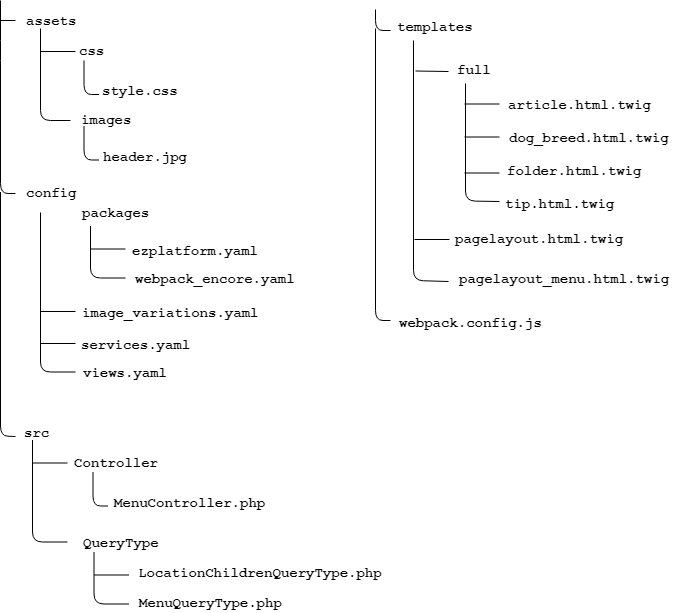
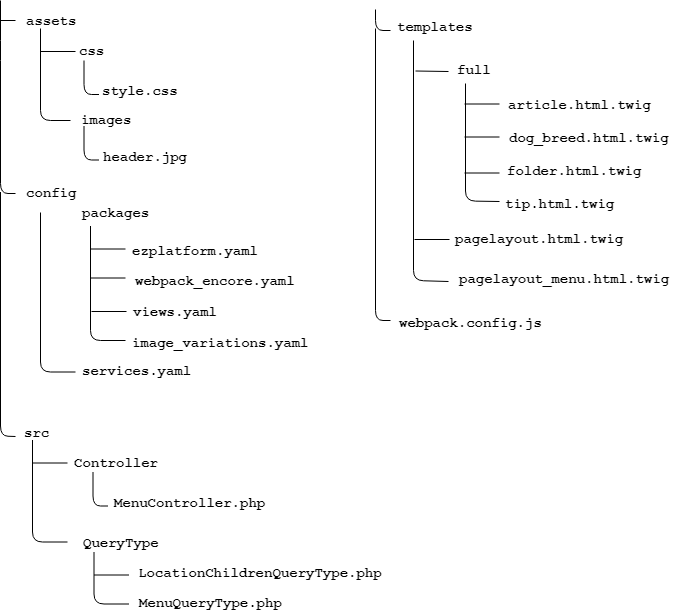
Fixes after review

diff --git a/docs/tutorials/enterprise_beginner/4_create_a_custom_block.md b/docs/tutorials/enterprise_beginner/4_create_a_custom_block.md
@@ -183,8 +183,7 @@ private function findContentItems(Location $location): array
 At this point the new custom block is ready to be used.
 
 You're left with the last cosmetic changes. First, the new Block has a broken icon in the Elements menu in Page mode.
-This is because you haven't provided this icon yet. If
- you look back to the YAML configuration, you can see the icon file defined as `random_block.svg` (line 4). Download [the provided file](https://github.com/ezsystems/ezplatform-ee-beginner-tutorial/blob/v3-step4/public/assets/images/blocks/random_block.svg) and place it in `public/assets/images/blocks`.
+This is because you haven't provided this icon yet. If you look back to the YAML configuration, you can see the icon file defined as `random_block.svg` (line 4). Download [the provided file](https://github.com/ezsystems/ezplatform-ee-beginner-tutorial/blob/v3-step4/public/assets/images/blocks/random_block.svg) and place it in `public/assets/images/blocks`.
 
 Finally, add some styling for the new block. Add the following to the end of the `assets/css/style.css` file:
 
@@ -211,7 +210,7 @@ Finally, add some styling for the new block. Add the following to the end of the
 }
 ```
 
-Run `yarn encore dev` to regenerate assets.
+Run `yarn encore <dev|prod>` to regenerate assets.
 
 Go back to editing the Front Page. Drag a Random Block from the Elements menu on the right to the Page's side column.
 Access the block's settings and choose the "All Tips" folder from the menu. Save and publish all the changes.

diff --git a/docs/tutorials/enterprise_beginner/1_get_a_starter_website.md b/docs/tutorials/enterprise_beginner/1_get_a_starter_website.md
@@ -65,18 +65,10 @@ Place the [`pagelayout.html.twig`](https://github.com/ezsystems/ezplatform-ee-be
 - [`folder.html.twig`](https://github.com/ezsystems/ezplatform-ee-beginner-tutorial/blob/v3-step1/templates/full/folder.html.twig)
 - [`tip.html.twig`](https://github.com/ezsystems/ezplatform-ee-beginner-tutorial/blob/v3-step1/templates/full/tip.html.twig)
 
-Place two configuration files in the `config` folder:
+Place two configuration files in the `config/packages` folder:
 
-- [`views.yaml`](https://github.com/ezsystems/ezplatform-ee-beginner-tutorial/blob/v3-step1/config/views.yaml)
-- [`image_variations.yaml`](https://github.com/ezsystems/ezplatform-ee-beginner-tutorial/blob/v3-step1/config/image_variations.yaml)
-
-Modify the `ezplatform.yaml` file located in `config/packages` folder and add the following block at the start of the file:
-
-``` yaml
-imports:
-    - { resource: ../views.yaml }
-    - { resource: ../image_variations.yaml }
-```
+- [`views.yaml`](https://github.com/ezsystems/ezplatform-ee-beginner-tutorial/blob/v3-step1/config/packages/views.yaml)
+- [`image_variations.yaml`](https://github.com/ezsystems/ezplatform-ee-beginner-tutorial/blob/v3-step1/config/packages/image_variations.yaml)
 
 Create an `assets` folder in the project root:
 
@@ -88,7 +80,7 @@ Replace the `webpack.config.js` file in the project root folder with the [provid
 Next, in the terminal run the commands:
 
 ``` bash
-yarn encore dev
+yarn encore <dev|prod>
 php bin/console cache:clear
 ```
 

diff --git a/docs/tutorials/enterprise_beginner/2_prepare_the_landing_page.md b/docs/tutorials/enterprise_beginner/2_prepare_the_landing_page.md
@@ -18,7 +18,7 @@ Go to the front page of your website (`<yourdomain>`). You can see that it looks
 
     `php bin/console cache:clear`
 
-    `yarn encore dev`
+    `yarn encore <dev|prod>`
 
 Log in to the Back Office. Go to Content &gt; Content Structure.
 The **Home** Content item is the first page that is shown to the visitor.
@@ -169,7 +169,7 @@ Add this new template, `templates/full/landing_page.html.twig`:
 This template simply renders the page content. If there is any additional content or formatting you would like to apply to every Page, it should be placed in this template.
 
 Now you need to tell the app to use this template to render Pages.
-Edit the `config/views.yaml` file and add the following code under the `full:` key:
+Edit the `config/packages/views.yaml` file and add the following code under the `full:` key:
 
 ``` yaml
 landing_page:
